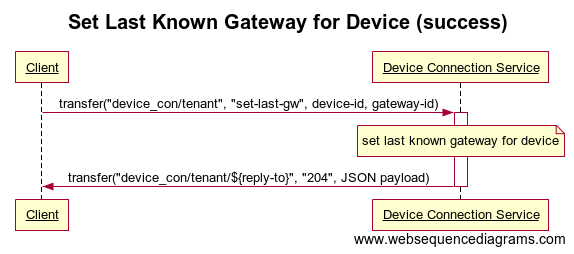
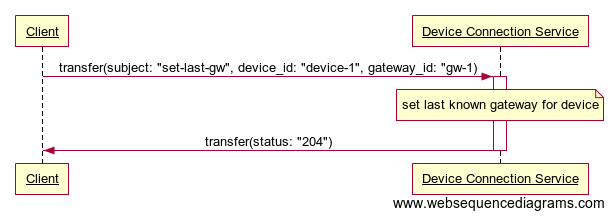
[#1245] Fix diagrams.

Changed region(s): [[0.0, 0.055, 1.0, 0.9908]]

diff --git a/site/content/api/Device-Connection-API.md b/site/content/api/Device-Connection-API.md
@@ -1,5 +1,6 @@
 +++
-title = "Device Connection API"
+title = "Device Connection API Specification"
+slug = "Device Connection API"
 weight = 425
 +++
 
@@ -17,11 +18,7 @@ The Device Connection API is defined by means of AMQP 1.0 message exchanges, i.e
 
 {{< figure src="../connectToDeviceConnection.png" alt="A client establishes an AMQP connection and the links required to invoke operations of the Device Connection service" title="Client connecting to Device Connection service" >}}
 
-## Operations
-
-The operations described in the following sections are invoked by Hono's components during run time and are therefore mandatory to implement.
-
-### Set Last Known Gateway for Device
+## Set last known Gateway for Device
 
 Clients use this command to *set* the gateway that last acted on behalf of a given device.
 
@@ -30,10 +27,7 @@ As this operation is invoked frequently by Hono's components, implementors may c
 **Message Flow**
 
 
-The following sequence diagram illustrates the flow of messages involved in a *Client* setting the last known gateway for a device.
-
-![Set Last Known Gateway for Device message flow](../set-last-gw_Success.png)
-
+{{< figure src="../setLastKnownGatewayForDevice_Success.png" title="Client sets the last known gateway for a device" alt="A client sends a request message for setting the last known gateway and receives a response containing a confirmation" >}}
 
 **Request Message Format**
 
@@ -52,26 +46,23 @@ A response to a *set last known gateway for device* request contains the [Standa
 
 The response message's *status* property may contain the following codes:
 
-| Code | Description |
-| :--- | :---------- |
-| *204* | OK, the last known gateway for the device was updated. |
-| *400* | Bad Request, the last known gateway has NOT been updated due to invalid data in the request. |
+| Code  | Description |
+| :---- | :---------- |
+| *204* | OK, the last known gateway for the device has been updated. |
+| *400* | Bad Request, the last known gateway has not been updated due to invalid or missing data in the request. |
 
 Implementors of this API may return a *404* status code in order to indicate that no device and/or gateway with the given identifier exists for the given tenant. However, performing such a check is optional.
 
 For status codes indicating an error (codes in the `400 - 499` range) the message body MAY contain a detailed description of the error that occurred.
 
-### Get Last Known Gateway for Device
+## Get last known Gateway for Device
 
 Clients use this command to *retrieve* the gateway that last acted on behalf of a given device.
 
 **Message Flow**
 
 
-The following sequence diagram illustrates the flow of messages involved in a *Client* retrieving the last known gateway for a Device.
-
-![Get Last Known Gateway for Device message flow](../get-last-gw_Success.png)
-
+{{< figure src="../getLastKnownGatewayForDevice_Success.png" title="Client retrieving the last known gateway for a device" alt="A client sends a request message for retrieving the last known gateway and receives a response containing the information" >}}
 
 **Request Message Format**
 
@@ -105,7 +96,7 @@ The response message's *status* property may contain the following codes:
 | Code | Description |
 | :--- | :---------- |
 | *200* | OK, the payload contains the gateway ID. |
-| *400* | Bad Request, the last known gateway could not be retrieved due to invalid data in the request. |
+| *400* | Bad Request, the request message does not contain all required information/properties. |
 | *404* | Not Found, there is no last known gateway assigned to the device. |
 
 Implementors of this API may return a *404* status code in order to indicate that no device with the given identifier exists for the given tenant. However, performing such a check is optional.
